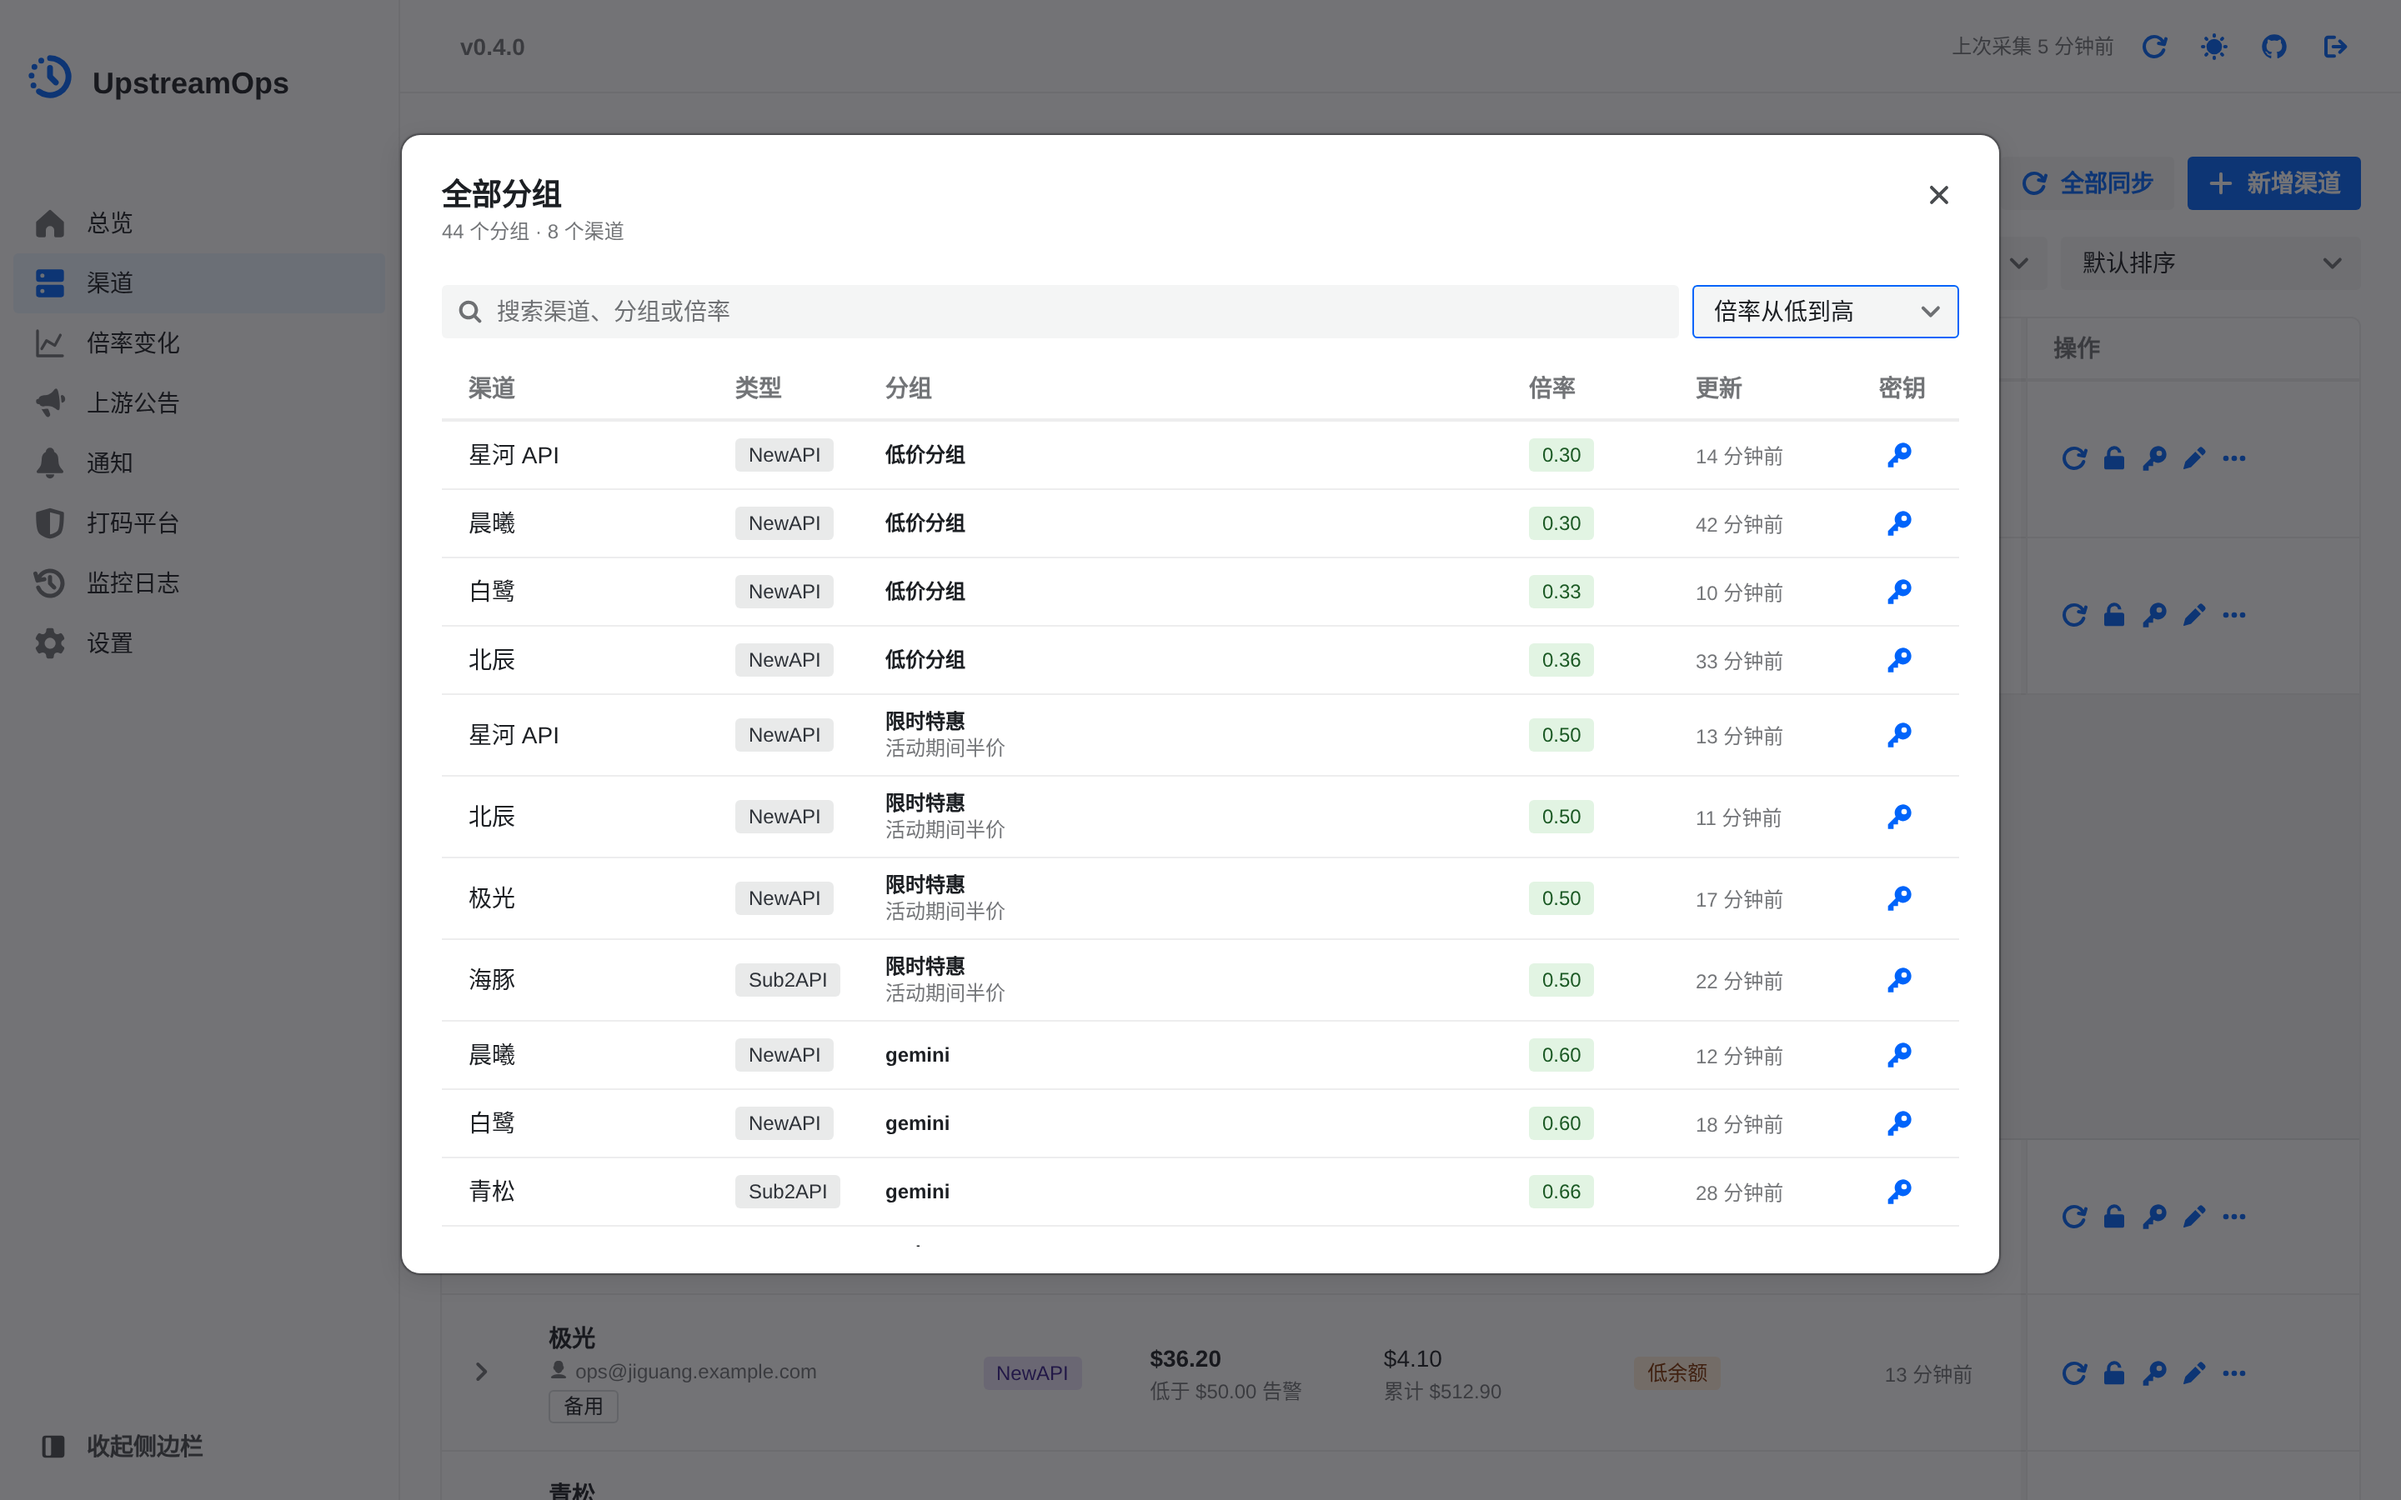
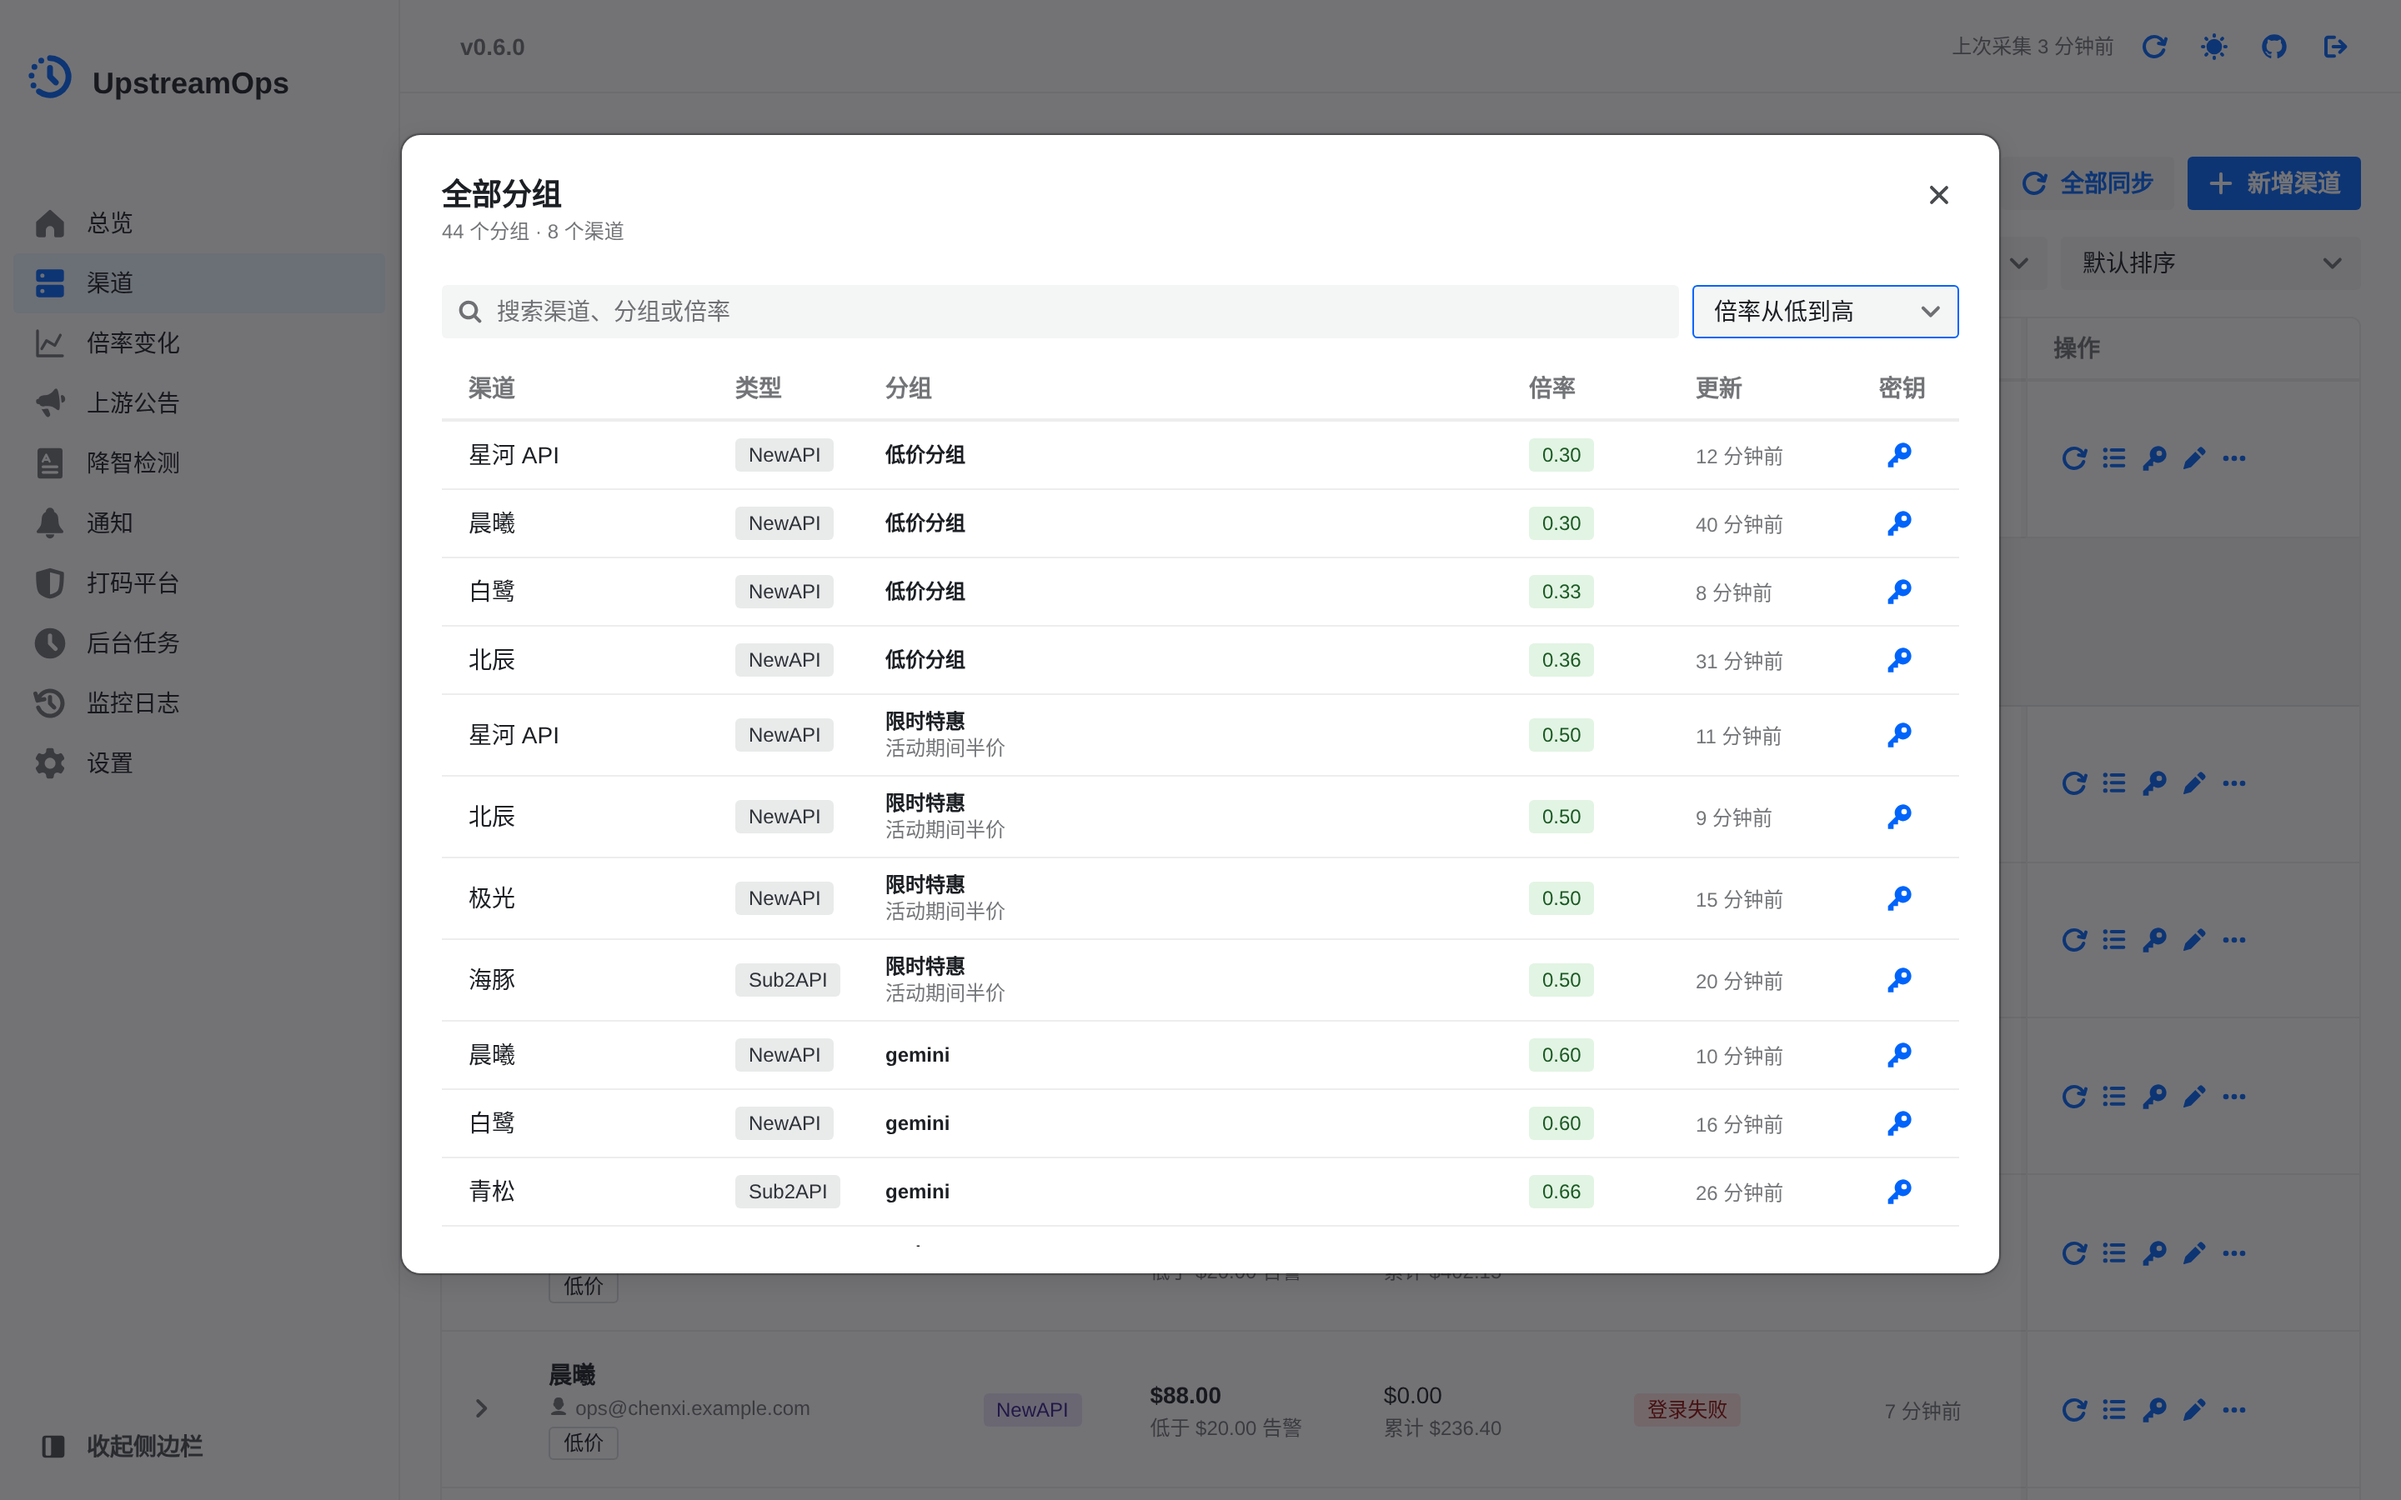
chore: 升级版本至v0.6.0，README 加上降智检测和后台任务的预览图并换上新截图

diff --git a/backend/global/version.go b/backend/global/version.go
@@ -1,4 +1,4 @@
 // Package global 存放构建版本等全局常量。
 package global
 
-const VERSION = "0.5.1"
+const VERSION = "0.6.0"

diff --git a/README.md b/README.md
@@ -61,9 +61,17 @@ UpstreamOps 主要解决这些痛点：
 
 ![上游公告](docs/images/announcement.png)
 
+降智检测：每把密钥的状态和最近一轮结论，点开一行看每次的回答、用量和耗时。
+
+![降智检测](docs/images/degrade.png)
+
 通知：Telegram、企业微信通知渠道和发送记录。
 
 ![通知](docs/images/notifications.png)
+
+后台任务：手动同步、测试登录、降智检测和每轮定时采集、巡检、清理都记在这里，点开一行看每一步。
+
+![后台任务](docs/images/jobs.png)
 
 监控日志：每次登录、校验会话、采集余额、消费和倍率的结果与耗时。
 
@@ -285,7 +293,7 @@ IMAGE_TAG=latest
 生产环境建议锁定具体版本，例如：
 
 ```env
-IMAGE_TAG=v0.5.1
+IMAGE_TAG=v0.6.0
 ```
 
 ## 环境变量

diff --git a/docs/CHANGELOG.md b/docs/CHANGELOG.md
@@ -4,7 +4,7 @@
 
 还没发版的改动先记在“未发布”下，发版时把这个标题改成版本号和日期，再打 tag。推送 `vX.Y.Z` tag 后，发布工作流会取对应段落作为 GitHub Release 的说明，并在末尾附上镜像地址和 digest；找不到对应段落会在构建镜像前失败。应用里“检测更新”发现新版本时，弹窗显示的就是这些 Release 说明。
 
-## 未发布
+## v0.6.0（2026-10-13）
 
 ### 新增
 
